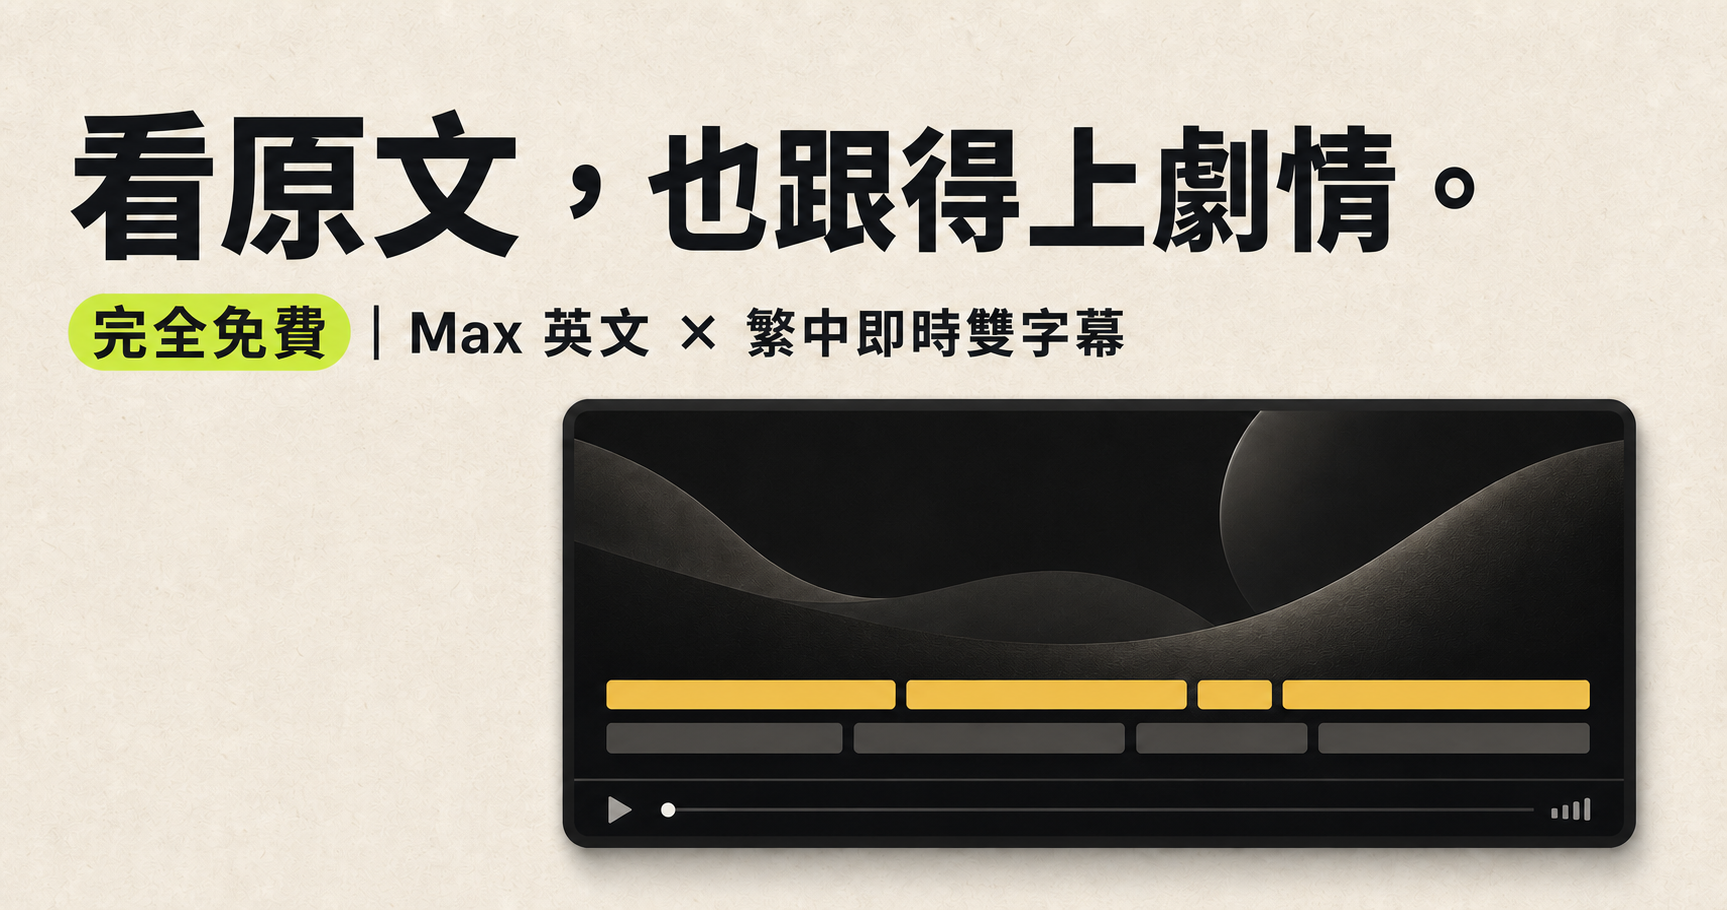
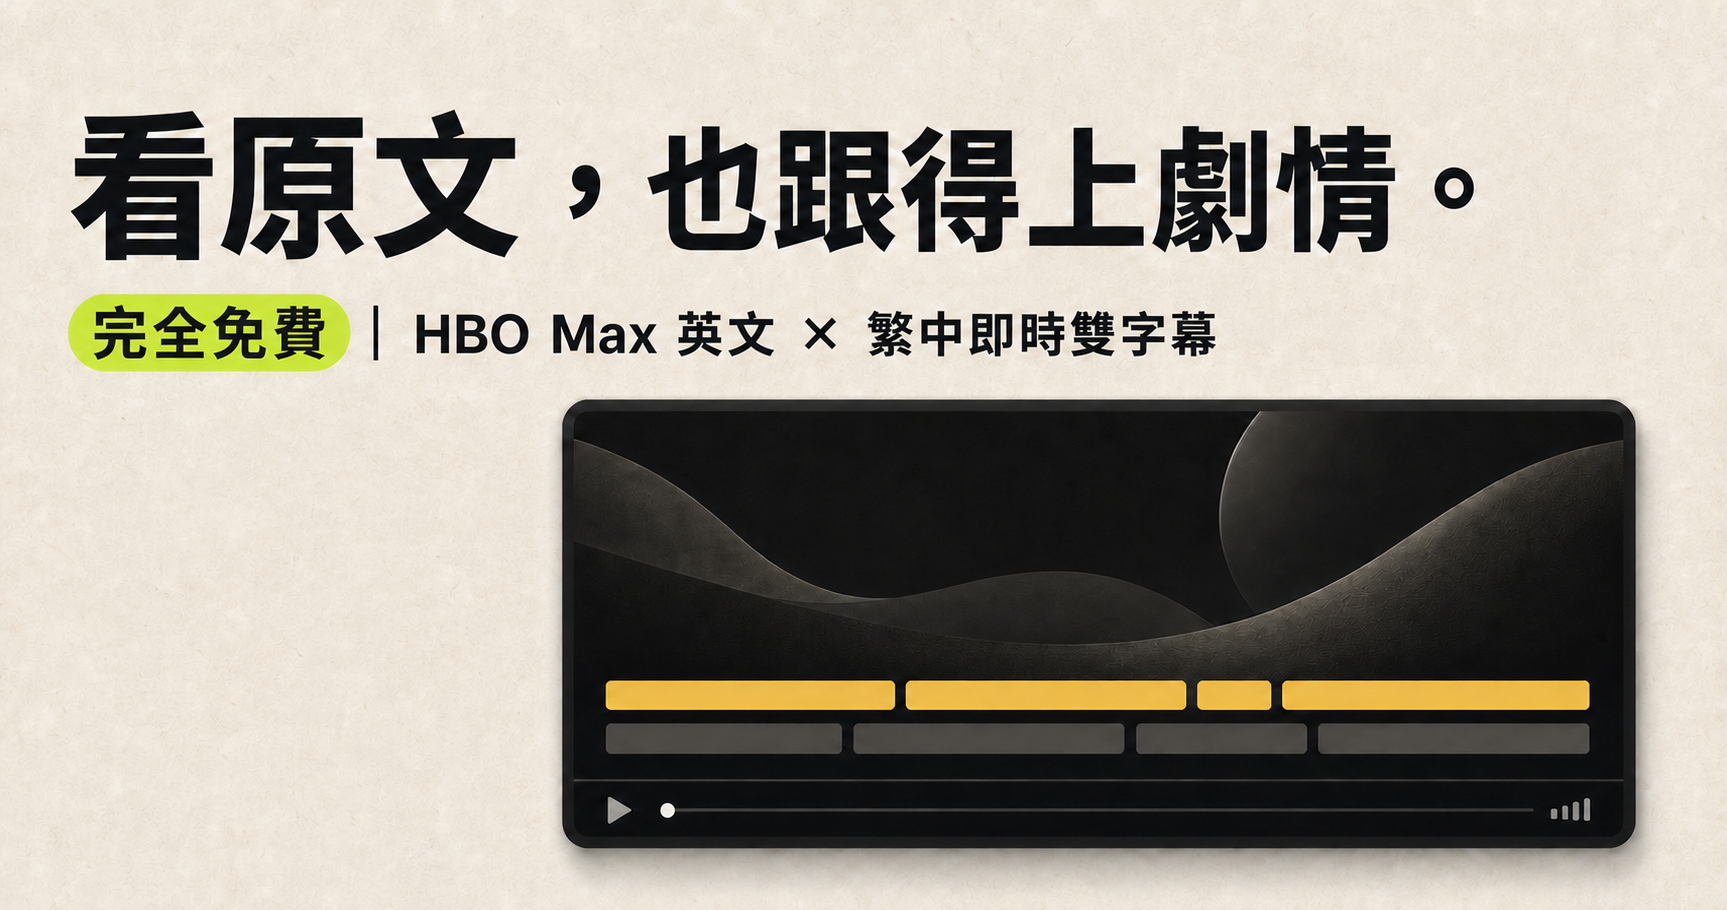
Fix HBO Max branding and product descriptions (#4)

diff --git a/website/app/page.tsx b/website/app/page.tsx
@@ -70,10 +70,10 @@ export default function Home() {
 
       <section className="hero shell" id="top">
         <div className="heroCopy">
-          <div className="eyebrow"><span /> 免費 MAX 英文 × 繁中雙字幕 CHROME 擴充功能</div>
-          <h1>在 Max 看原文，<br /><em>也跟得上劇情。</em></h1>
+          <div className="eyebrow"><span /> 免費 HBO MAX 英文 × 繁中雙字幕 CHROME 擴充功能</div>
+          <h1>在 HBO Max 看原文，<br /><em>也跟得上劇情。</em></h1>
           <p className="lede">
-            LocalSubs 是免費 Chrome 擴充功能，在 HBO Max／Max 同步閱讀英文原句與針對台灣用語優化的繁中翻譯。
+            LocalSubs 是免費 Chrome 擴充功能，在 HBO Max 同步閱讀英文原句與針對台灣用語優化的繁中翻譯。
           </p>
           <div className="heroActions">
             <a className="button buttonAccent" href={storeUrl} target="_blank" rel="noreferrer">
@@ -119,13 +119,13 @@ export default function Home() {
 
       <section className="experience shell" id="experience">
         <div className="sectionHeading">
-          <p className="kicker">Max 已經有字幕，為什麼還需要 LocalSubs？</p>
+          <p className="kicker">HBO Max 已經有字幕，為什麼還需要 LocalSubs？</p>
           <h2>不用在英文和繁中之間二選一。</h2>
-          <p>Max 一次只能顯示一種字幕。LocalSubs 保留英文原句，再用繁中補上沒聽懂的地方。</p>
+          <p>HBO Max 一次只能顯示一種字幕。LocalSubs 保留英文原句，再用繁中補上沒聽懂的地方。</p>
         </div>
-        <div className="dualChoice" aria-label="Max 單字幕與 LocalSubs 雙字幕比較">
+        <div className="dualChoice" aria-label="HBO Max 單字幕與 LocalSubs 雙字幕比較">
           <div className="singleChoice">
-            <span className="choiceLabel">MAX 原生字幕</span>
+            <span className="choiceLabel">HBO MAX 原生字幕</span>
             <div><b>只看英文</b><strong>看見原句</strong><p>但沒聽懂的關鍵句只能靠猜。</p></div>
             <div><b>只看繁中</b><strong>跟上劇情</strong><p>但看不到演員真正說了什麼。</p></div>
           </div>
@@ -147,7 +147,7 @@ export default function Home() {
         <ol className="stepList">
           <li><span>01</span><div><h3>免費加到 Chrome</h3><p>從 Chrome 線上應用程式商店免費安裝 LocalSubs，不用月費。</p></div><b>安裝擴充功能</b></li>
           <li><span>02</span><div><h3>完成一次本機設定</h3><p>首次開啟時下載離線翻譯功能，之後字幕就能直接在裝置上處理。</p></div><b>只需設定一次</b></li>
-          <li><span>03</span><div><h3>打開 Max</h3><p>開啟英文字幕並開始播放，LocalSubs 會同步加入繁中翻譯。</p></div><b>開始雙字幕</b></li>
+          <li><span>03</span><div><h3>打開 HBO Max</h3><p>開啟英文字幕並開始播放，LocalSubs 會同步加入繁中翻譯。</p></div><b>開始雙字幕</b></li>
         </ol>
       </section>
 
@@ -163,7 +163,7 @@ export default function Home() {
             <div className="localMachine">
               <div className="machineHeader"><span>全部在你的電腦裡完成</span><b><i /> 不呼叫外部服務</b></div>
               <div className="privateFlow">
-                <div className="flowStep"><small>MAX 英文字幕</small><strong>How did you know?</strong></div>
+                <div className="flowStep"><small>HBO MAX 英文字幕</small><strong>How did you know?</strong></div>
                 <span className="flowArrow" aria-hidden="true">→</span>
                 <div className="flowStep flowLocal"><img src="/localsubs-logo.png" alt="" width="38" height="38" /><small>LOCALSUBS</small><strong>本機翻譯</strong></div>
                 <span className="flowArrow" aria-hidden="true">→</span>
@@ -201,8 +201,8 @@ export default function Home() {
         </div>
         <div className="faqList">
           <details>
-            <summary>HBO Max／Max 可以同時顯示中英雙字幕嗎？<b>＋</b></summary>
-            <p>Max 原生一次只能顯示一種字幕。安裝 LocalSubs 後，開啟英文字幕即可在同一個播放畫面同步加入繁中翻譯。</p>
+            <summary>HBO Max 可以同時顯示中英雙字幕嗎？<b>＋</b></summary>
+            <p>HBO Max 原生一次只能顯示一種字幕。安裝 LocalSubs 後，開啟英文字幕即可在同一個播放畫面同步加入繁中翻譯。</p>
           </details>
           <details>
             <summary>LocalSubs 需要付費或建立帳號嗎？<b>＋</b></summary>
@@ -223,7 +223,7 @@ export default function Home() {
         <div className="ctaMarquee" aria-hidden="true">原文 · 繁中 · 原文 · 繁中</div>
         <div className="ctaContent">
           <img src="/localsubs-logo.png" alt="LocalSubs 圖示" width="78" height="78" />
-          <h2>免費開啟 Max<br />英文＋繁中雙字幕。</h2>
+          <h2>免費開啟 HBO Max<br />英文＋繁中雙字幕。</h2>
           <p>不用月費，也不需建立帳號。</p>
           <a className="button buttonDark" href={storeUrl} target="_blank" rel="noreferrer"><ChromeIcon /> 免費加到 Chrome，開啟雙語字幕 <Arrow /></a>
         </div>
@@ -231,7 +231,7 @@ export default function Home() {
 
       <footer className="footer shell">
         <a className="brand footerBrand" href="#top"><img src="/localsubs-logo.png" alt="" width="34" height="34" /><span>LocalSubs</span></a>
-        <p>在 Max 看原文，也跟得上劇情。</p>
+        <p>在 HBO Max 看原文，也跟得上劇情。</p>
         <div><a href="https://github.com/aiden1020/localsubs" target="_blank" rel="noreferrer">GitHub</a><a href="https://github.com/aiden1020/localsubs/blob/main/PRIVACY.md" target="_blank" rel="noreferrer">隱私</a><a href={storeUrl} target="_blank" rel="noreferrer">Chrome 商店</a></div>
       </footer>
     </main>

diff --git a/extension/src/options.js b/extension/src/options.js
@@ -8,7 +8,7 @@ import {
 const I18N = {
   "zh-Hant": {
     setupTitle: "設定",
-    intro: "即時、完全本機、免費且開源的串流字幕翻譯。",
+    intro: "免費為 HBO Max 加入英文＋台灣繁中雙字幕，支援 macOS 與 Windows。",
     inferenceEyebrow: "翻譯模式",
     inferenceTitle: "選擇適合你的翻譯方式",
     inferenceBackend: "翻譯方式",
@@ -86,7 +86,7 @@ const I18N = {
   },
   en: {
     setupTitle: "Setup",
-    intro: "Real-time, fully local, free and open source subtitle translation for streaming video.",
+    intro: "Free English and Traditional Chinese dual subtitles for HBO Max on macOS and Windows.",
     inferenceEyebrow: "Translation mode",
     inferenceTitle: "Choose how LocalSubs translates",
     inferenceBackend: "Translation mode",
@@ -578,7 +578,7 @@ warmupServiceButton.addEventListener("click", () => {
 });
 
 openSupportedSiteButton.addEventListener("click", () => {
-  window.open("https://www.max.com/", "_blank", "noopener");
+  window.open("https://www.hbomax.com/", "_blank", "noopener");
 });
 
 applyLanguage(DEFAULT_SETTINGS.optionsLanguage);

diff --git a/website/app/site.ts b/website/app/site.ts
@@ -4,7 +4,7 @@ export const storeUrl =
   "https://chromewebstore.google.com/detail/localsubs%EF%BC%9Ahbo-max-%E5%8D%B3%E6%99%82%E3%80%81%E5%AE%8C%E5%85%A8%E6%9C%AC%E5%9C%B0/dpacileladlkfgdjbdjdjhgnepicejjb";
 
 export const siteTitle =
-  "LocalSubs｜免費 HBO Max／Max 中英雙字幕 Chrome 擴充功能";
+  "LocalSubs｜免費 HBO Max 英文＋繁中雙字幕 Chrome 擴充功能";
 
 export const siteDescription =
-  "免費在 HBO Max／Max 同步顯示英文原文與繁體中文字幕。針對台灣用語優化，不需帳號，支援 Chrome 與 Edge。";
+  "免費在 HBO Max 同步顯示英文原文與台灣繁中翻譯。針對台灣用語優化，不需帳號，支援 macOS 與 Windows 上的 Chrome、Chromium 和 Edge。";

diff --git a/options.html b/options.html
@@ -21,7 +21,7 @@
             </div>
           </div>
           <h1 data-i18n="setupTitle">設定</h1>
-          <p class="intro" data-i18n="intro">即時、完全本機、免費且開源的串流字幕翻譯。</p>
+          <p class="intro" data-i18n="intro">免費為 HBO Max 加入英文＋台灣繁中雙字幕，支援 macOS 與 Windows。</p>
         </div>
         <div id="service-status" class="service-status is-checking" aria-live="polite">
           <span id="service-status-dot" class="status-dot"></span>

diff --git a/website/app/layout.tsx b/website/app/layout.tsx
@@ -15,7 +15,7 @@ export const metadata: Metadata = {
     siteName: "LocalSubs",
     type: "website",
     locale: "zh_TW",
-    images: [{ url: "/og-warm.png", width: 1727, height: 910, alt: "LocalSubs：完全免費，在 Max 看原文也跟得上劇情。" }],
+    images: [{ url: "/og-warm.png", width: 1727, height: 910, alt: "LocalSubs：完全免費，在 HBO Max 看原文也跟得上劇情。" }],
   },
   twitter: {
     card: "summary_large_image",

diff --git a/extension/test/subtitle-detector.test.js b/extension/test/subtitle-detector.test.js
@@ -18,7 +18,7 @@ function makeVisible() {
 }
 
 describe("SubtitleDetector", () => {
-  it("detects a visible Max caption and reports its container", () => {
+  it("detects a visible HBO Max caption and reports its container", () => {
     document.body.innerHTML = fixture("single-line.html");
     makeVisible();
     const onNodeChange = vi.fn();

diff --git a/extension/test/max-adapter.test.js b/extension/test/max-adapter.test.js
@@ -16,7 +16,7 @@ function loadFixture(name) {
   );
 }
 
-describe("Max subtitle adapter", () => {
+describe("HBO Max subtitle adapter", () => {
   it("extracts a single cue from its caption container", () => {
     loadFixture("single-line.html");
     const cue = document.querySelector("[data-testid='cueBoxRowTextCue']");

diff --git a/README.md b/README.md
@@ -7,8 +7,8 @@
   <h3 align="center">LocalSubs</h3>
 
   <p align="center">
-Real-time, fully local AI subtitle translation for streaming video.
-Translates English subtitles to Traditional Chinese on-device using the LocalSubs 0.6B model — no data leaves your machine.
+Free English and Traditional Chinese dual subtitles for HBO Max on macOS and Windows.
+Keep the original dialogue on screen while Taiwan-optimized Traditional Chinese fills in what you miss. Translation runs locally on your device.
 
 <br />
 
